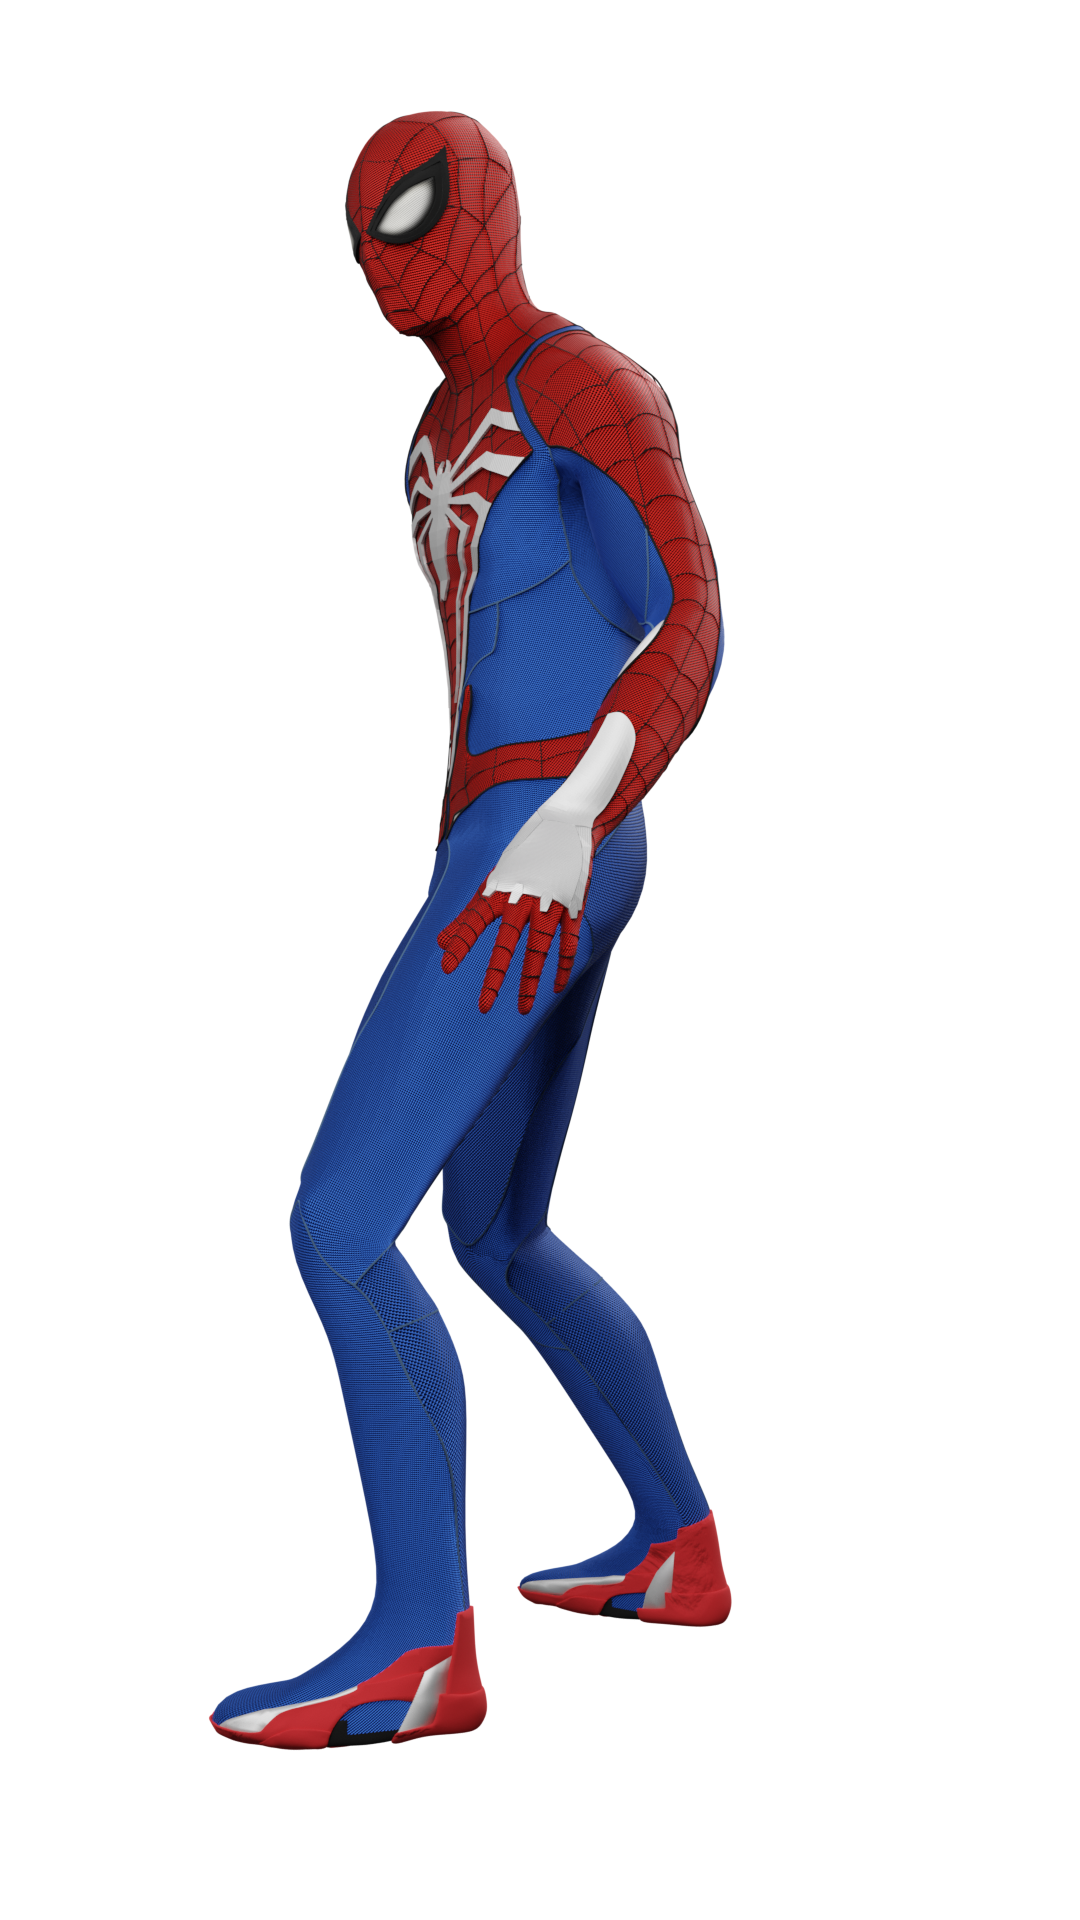
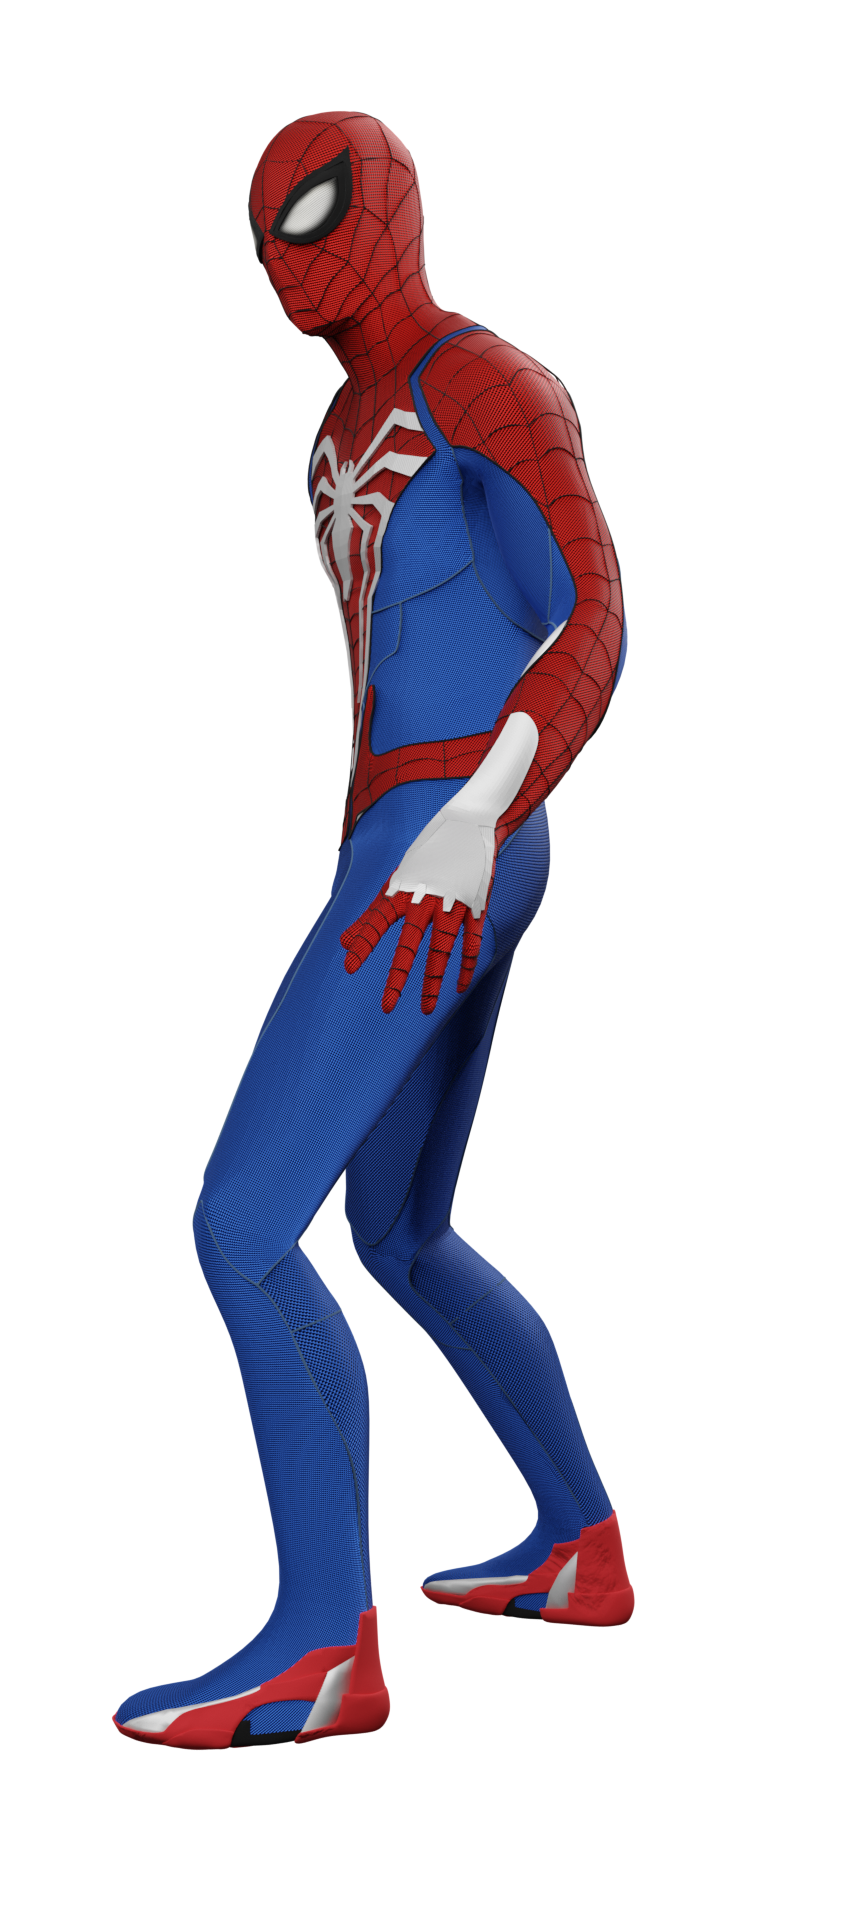
Add larger images for stance

Changed region(s): [[0.1234, 0.0625, 0.7711, 0.9375]]

diff --git a/src/components/3d/3d.js b/src/components/3d/3d.js
@@ -24,12 +24,12 @@ function FullSuit() {
       </Text>
       <ImageRotation path="images/3d/ps5_full_suit/rotation_stance/" />
       <DateLog date="October 2, 2023" />
+      <ImagePopup src="images/3d/ps5_full_suit/stance.png" />
+
       <Documentation
         text={ThreeDInfo.fullSuit}
         src="images/3d/spiderman_low_poly_scope.png"
       />
-      <Text size="3">Slideshow</Text>
-      <ImagePopup src="images/3d/ps5_full_suit/stance.png" />
       <ImagePopup src="images/3d/ps5_full_suit/dual_180.png" />
     </>
   );
